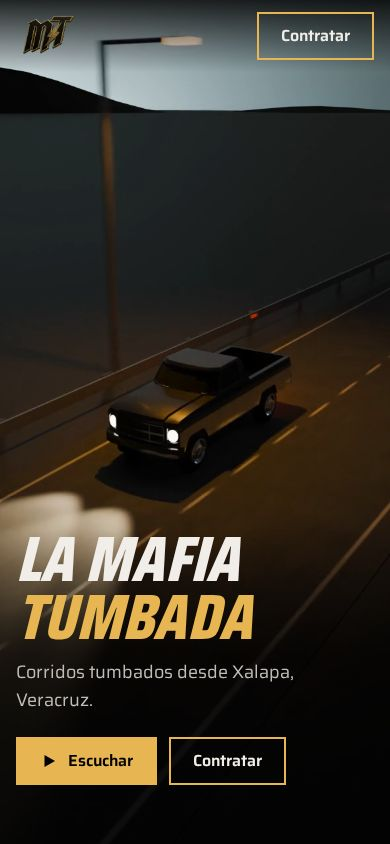
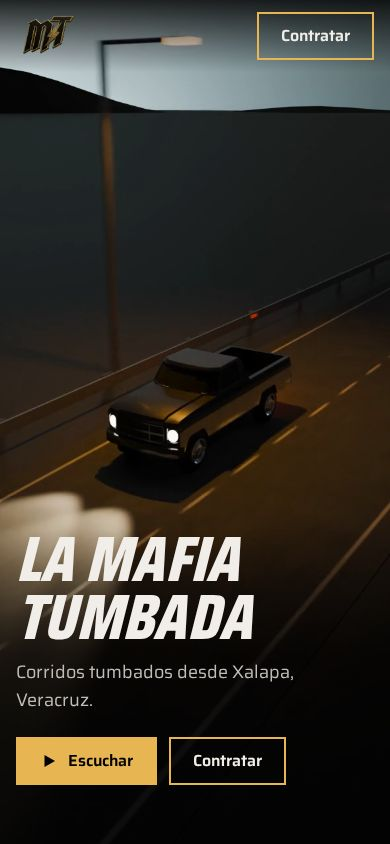
docs(design): elección A, cifras con revisar en ambos lados, handoff para el build
Claude-Session: https://claude.ai/code/session_01JDrAzB3AuKatGAyrWKjuKN

Changed region(s): [[0.0615, 0.6777, 0.6769, 0.7701]]

diff --git a/docs/design/directions/index.html b/docs/design/directions/index.html
@@ -37,9 +37,9 @@ th,td{border-bottom:1px solid var(--line);padding:8px;text-align:left;vertical-a
 <div class="wrapt"><table>
 <thead><tr><th></th><th>A Carretera</th><th>B Cartel</th><th>C En vivo</th><th>eptosuno.com</th></tr></thead>
 <tbody>
-<tr><th>revisar.sh web (390 + 1440)</th><td>0 FAIL</td><td>0 FAIL</td><td>0 FAIL</td><td>—</td></tr>
-<tr><th>Fallas de contraste</th><td>0</td><td>0</td><td>0</td><td>11</td></tr>
-<tr><th>Peso a 390</th><td>1.51 MB</td><td>0.78 MB</td><td>0.78 MB (+ loop ≤ 1.2 MB)</td><td>363 KB (1440)</td></tr>
+<tr><th>revisar.sh web (390 + 1440)</th><td>0 FAIL</td><td>0 FAIL</td><td>0 FAIL</td><td>5 FAIL</td></tr>
+<tr><th>Fallas de contraste (revisar, 390)</th><td>0</td><td>0</td><td>0</td><td>91</td></tr>
+<tr><th>Peso a 390</th><td>1.51 MB</td><td>0.78 MB</td><td>0.78 MB (+ loop ≤ 1.2 MB)</td><td>2.53 MB</td></tr>
 <tr><th>Costo</th><td>Cycles ~12 s/cuadro; loops ya hechos</td><td>ninguno</td><td>necesita el video en vivo de la banda</td><td></td></tr>
 <tr><th>Botones</th><td>relleno dorado que sube, 500 ms</td><td>tinta dorada que sube; se hunde y actúa al soltar</td><td>se inclina hacia el cursor (6 px)</td><td>bordes rectos, cambio de color</td></tr>
 </tbody></table></div>

diff --git a/docs/design/directions/a-carretera.html b/docs/design/directions/a-carretera.html
@@ -34,7 +34,7 @@ header nav a{display:none;min-height:44px;align-items:center;padding:0 12px;text
 .hero video,.hero .poster{position:absolute;inset:0;width:100%;height:100%;object-fit:cover}
 .hero .copy{position:relative;padding-bottom:clamp(32px,7vh,80px);background:linear-gradient(transparent,var(--veil) 40%)}
 .hero h1{font-size:clamp(64px,13vw,200px);color:var(--ink)}
-.hero h1 span{display:block;color:var(--gold)}
+.hero h1 span{display:block}
 .hero p{font-size:clamp(18px,1.6vw,22px);margin:14px 0 22px;max-width:30ch;color:var(--muted)}
 .hero .acts{display:flex;gap:12px;flex-wrap:wrap}
 /* sections */

diff --git a/docs/design/directions.md b/docs/design/directions.md
@@ -6,17 +6,23 @@ changes. Each one: hero, music, video, members and contact, at 390 and 1440. Com
 
 Measured on all three (localhost, lab):
 
-| | A Carretera | B Cartel | C En vivo | eptosuno.com |
-|---|---|---|---|---|
-| `revisar.sh` web, 390 + 1440 | 0 FAIL | 0 FAIL | 0 FAIL | — |
-| Text contrast fails (WCAG 4.5:1) | 0 | 0 | 0 | 11 (`tokens.mjs`) |
-| Tier-A slop tells (eyebrow, numbered tabs, scroll cue, hollow type, marquee) | 0 | 0 | 0 | 5 by eye |
-| Weight at 390, cache off | 1.51 MB (the loop is 980 KB) | 0.78 MB | 0.78 MB (still image; a loop adds ≤ 1.2 MB) | 363 KB after scroll (1440) |
-| CLS 1440 | 0.016 | 0.078 | 0.063 | 0.001 |
+Every row was measured with the same instrument on both sides: `revisar.sh` web, at 390 and 1440, cache off.
+Raw tables are in `directions/shots/rv-*.tsv`.
 
-All three are **heavier** than eptosuno. Its 363 KB is a real strength. A localhost LCP is not comparable with a live CDN,
-so no speed claim is made. Where we beat it: contrast, no tier-A tells, one display family plus one text family instead
-of five, and assets nobody else on the label has.
+| `revisar.sh` web | A Carretera | B Cartel | C En vivo | eptosuno.com (live) |
+|---|---|---|---|---|
+| FAIL rows | 0 | 0 | 0 | 5 |
+| contrast (elements under 4.5:1, 390) | 0 | 0 | 0 | 91 |
+| tap targets under 44 px (390) | 0 | 0 | 0 | 33 |
+| horizontal overflow | 0 | 0 | 0 | 1 at 390, 2 at 1440 |
+| CLS 1440 | 0.016 | 0.078 | 0.063 | 0.120 (FAIL) |
+| weight at 390 until idle | 1.51 MB | 0.78 MB | 0.78 MB (+ loop ≤ 1.2 MB) | 2.53 MB |
+
+`speed.mjs` at 1440 gives eptosuno 363 KB after one scroll. `revisar.sh` gives 2.53 MB, because it waits for idle with
+the cache off. Only the `revisar.sh` numbers are compared here. Neither tool measures text over images, on either site:
+A's and C's heroes and C's member captions sit on photos and are judged by eye only (not verified). The tier-A tells on
+eptosuno (an eyebrow, numbered tabs, a scroll cue, hollow type, a marquee) are judgment, and so is their absence on ours.
+`slop-check.py` passes every automated row on eptosuno too.
 
 `slop-check.py` on `directions/`: no FAIL rows. Three REVIEW rows are kept on purpose:
 - `js-intersection-reveal` (A): it plays and pauses the loop by visibility. It is not a reveal.
@@ -87,6 +93,22 @@ logo mark over it, and the stage again behind the contact.
 - **How it beats eptosuno:** both use real photos, but C's hero is the crowd, not a portrait, and the palette is patina
   and bronze, not black and red. It differs on 2 of 3 axes (palette and hero mechanism; both use a condensed display).
   It is the closest of the three to eptosuno.
+
+## Honest limits of this round
+
+- A and B share the same button wipe (500 ms, same curve, same press dip). C's hover is an edge-to-fill colour swap, the
+  same idea as eptosuno's, plus a 6 px lean that touch and screenshots never show. The button languages are working
+  versions, not three crafted ones.
+- The icon morphs have no library reference that was measured. The closest is the `web/visuales.md` index row
+  "Interactive micro-animations (buttons, icons)" (landonorris, Rive, described only). Dissecting it is the step that
+  closes the gap (owner: a separate pair chain, `mothership/docs/queue/2026-11-12-mto-buttons-icons-pair.md`).
+- A and C share a hero layout: a dark full-bleed image, the name bottom-left, the same two buttons. Compare them on
+  scene and palette.
+- A's first draft set "TUMBADA" in gold, which is the accent-word pattern; it was removed before the pick.
+
+## Owner's pick
+
+**A, Carretera** (owner, 2026-11-12 21:56). Next: the tweak bar, then the build (`docs/design/handoff-a-build.md`).
 
 ## Recommendation
 

diff --git a/docs/design/handoff-a-build.md b/docs/design/handoff-a-build.md
@@ -1,0 +1,43 @@
+# Handoff: A Carretera, tweak bar then build (2026-11-12)
+
+Picked by the owner at 21:56 (mothership-10). This session stopped at the context limit set by its stance. The next
+session starts here, on branch `cc/stonkdrone` in worktree `/mnt/e/Cursor Projects/MTO-stonkdrone`.
+
+## What exists
+
+- `docs/design/brief.md` holds the content brief, the asks and the pick. `docs/design/references.md` passes refs-check
+  (sections `hero,musica,video,integrantes,contacto,botones`). Rows tagged **A:** are the build's trace.
+- `docs/design/directions.md` › A has the palette, type, motion, cost and the honest limits.
+  `docs/design/benchmark.md` has the bar (eptosuno: `revisar.sh` 5 FAIL, 2.53 MB at 390).
+- Prototype: `docs/design/directions/a-carretera.html` + `data.js`. It is static and loads `/public/...`, so serve it from
+  the repo root: `cd "/mnt/e/Cursor Projects/MTO-stonkdrone" && python3 -m http.server 3117 --bind 0.0.0.0`, then
+  open `http://thiccpc-wsl:3117/docs/design/directions/index.html`. Port 3100 is taken by another process.
+- The truck prototype's three.js scene, its stops and its DESIGN.md: `docs/design/DESIGN.md`, `docs/prototipo-camion.md`.
+  Its `src/` lives on the `cc/goblindrone` history in this repo. Loops and posters: `public/escena/`.
+
+## Next steps, in order
+
+1. **Tweak bar** (seed step 4, "later: a tweak bar for the picked direction"). It is a small panel on the A prototype
+   with knobs for: gold hue and lightness, the veil alpha, the display face (Saira Condensed italic vs 1–2 traced
+   alternatives), name size, night/dusk preset, and loop vs poster. Stop for the owner's settings (AskUserQuestion,
+   or the mothership) before the build. Check whether the seed says to stop there; the mothership's 21:57 message
+   says "stop for the owner at the tweak bar if your brief says so".
+2. **Build** in `src/pages/index.astro` (Astro + Tailwind, already the stack). Port the prototype's sections and
+   content from `research/contenido/`. Keep the gold fill wipe as the working button. Put the button and icon
+   code in one component each (`src/components/Boton.astro`, `src/components/Icono.astro`) so the pair chain
+   (`/home/black/projects/mothership/docs/queue/2026-11-12-mto-buttons-icons-pair.md`) can swap them. No pill unless the
+   owner picks it over 2–3 alternatives.
+3. **Gate:** `revisar.sh` web at 390 and 1440 with 0 FAIL, `slop-check.py src` with no FAIL, then a Mac WebKit pass brief
+   (skill `mac-webkit-pass`). Before any Cloudflare change, use the `cloudflare:*` skills. No deploy, no push.
+
+## Open (the owner's, don't block; use placeholders)
+
+- WhatsApp number (SPEC 228 835 1464 vs socials.ts 228 353 8827)
+- ONErpm date and announcement post
+- who is in the 5-person `cover.jpg`
+- covers at ≥ 1000 px (the current ones are 160 px)
+- the logo as a vector
+- lead with "POR EL BLOC"?
+- Tripo plan and attribution vs ToS §5.2.1
+- Known A flaws: low-poly CC0 pickup at close stops; dusk turns the paint silver; dark-lens bug in the 16:9 loop
+  (`docs/prototipo-camion.md`)

diff --git a/docs/design/step1-report.md b/docs/design/step1-report.md
@@ -1,0 +1,23 @@
+# Step 1 report (stonkdrone, 2026-11-12)
+
+- The three directions in one line each:
+  - A: night highway rendered in Cycles; black and the logo's gold; Saira italic; a gold fill wipes up on buttons.
+  - B: a two-ink cartel de baile (black and gold on paper); Anybody width axis; booking is a ticket stub.
+  - C: crowd and stage photos; patina green and bronze from the logo's bolt; magnetic buttons.
+- Benchmark sites: eptosuno is the best. ozomatli 284 KB. anabarbara is a 43 KB one-pager. carlosbaute 8.15 MB (Elementor). noelschajris 3.38 MB (Divi). The anti-pattern crops are in docs/design/benchmark/.
+- alexander-oliva.com: I took nothing from its look; it is an anti-reference (pill buttons, rounded cards, eyebrows, dot carousel, hollow type, all cropped). It runs the same stack as ours (GSAP, Lenis, three, View Transitions), so the edge has to come from assets and craft.
+- Ask the band for:
+  - the WhatsApp number (SPEC and socials.ts disagree);
+  - ONErpm deal date and announcement post (no public trace: Apple lines still read "℗ MAFIA TUMBADA");
+  - who the 5 people in cover.jpg are (members.ts lists 3);
+  - covers at ≥1000 px (the current ones are 160 px);
+  - the logo as vector or large alpha PNG;
+  - raw Plaza Lerdo footage;
+  - whether to lead with "POR EL BLOC" (2026-09-30);
+  - the Tripo plan and its attribution.
+- Tripo: the owner cleared the figures, but Tripo ToS §5.2.1 says that for free users Tripo retains all rights. Both are recorded in directions.md; the owner decides.
+- Deviation: design-process and the stance say to stop after references.md. The seed asked for three directions before the pick, and the seed won.
+- Not done: the blind jury pass (step 12) and Rive icon morphs. The library has no measured icon morph, so the botones row is marked unproven. eptosuno's 390 throttled speed was not measured because the page navigates during load.
+
+
+Comparison numbers were corrected after the first draft: `revisar.sh` on eptosuno gives 5 FAIL, 91 contrast elements and 2.53 MB at 390 (see directions.md).

diff --git a/docs/design/benchmark.md b/docs/design/benchmark.md
@@ -23,9 +23,11 @@ are eptosuno and ozomatli, and neither has a confirmed current ONErpm deal. **ep
   cache headers (so every visit downloads it again). Built with Claude by Alexander Oliva (alexander-oliva.com).
 - **Type:** Oswald 300 for body (13–16 px), Space Mono 9–11 px for labels, Anton for display (up to 115 px), and
   UnifrakturCook + Pirata One for the blackletter accents. That is five families.
-- **Contrast:** `tokens.mjs` measured 11 text/ground pairs under 4.5:1. For example, grey `#6f6a61` on `#121110` is 3.51,
+- **`revisar.sh` web (live, 390 + 1440):** 5 FAIL rows: 91 elements under 4.5:1, 33 tap targets under 44 px, overflow
+  from `div.grain`, CLS 0.120 at 1440, 2.53 MB at 390 until idle (`directions/shots/rv-eptosuno.tsv`).
+- **Contrast pairs:** `tokens.mjs` measured 11 text/ground pairs under 4.5:1. For example, grey `#6f6a61` on `#121110` is 3.51,
   and the red `#e01f12` on `#121110` is 3.93. Body text is 13 px light Oswald.
-- **slop-check:** passes every automated row on the live URL. By eye, it shows tier-A tells the script misses: an eyebrow
+- **slop-check:** passes every automated row on the live URL (rerun 2026-11-12, `grep -v PASS` empty). By eye, it shows tier-A tells the script misses: an eyebrow
   above the hero name ("MC · OBREGÓN, SONORA · DESDE EL BARRIO AL MUNDO"), numbered tabs ("01 Drop / 02 Música /
   03 Batalla"), a "SCROLL" cue with a line, a marquee band, and the same album block repeated eight times.
 - **What it does well:** real content in depth (eight albums with full tracklists, battles, dates). A clear voice. A

diff --git a/docs/design/brief.md b/docs/design/brief.md
@@ -85,4 +85,5 @@ No eyebrows, kickers or numbering above headings (slop tells, tier A). Section n
 ## Directions: the owner's pick
 
 Three directions in `docs/design/directions.md`, compared in `docs/design/directions/index.html`.
-`[pending: owner's pick and feedback]`
+**Picked: A, Carretera** (owner, 2026-11-12 21:56). Buttons: the gold fill wipe stays as a working version. Crafted
+buttons and morphing icons come later from a separate pair chain. No pill unless the owner picks it over 2–3 alternatives.
